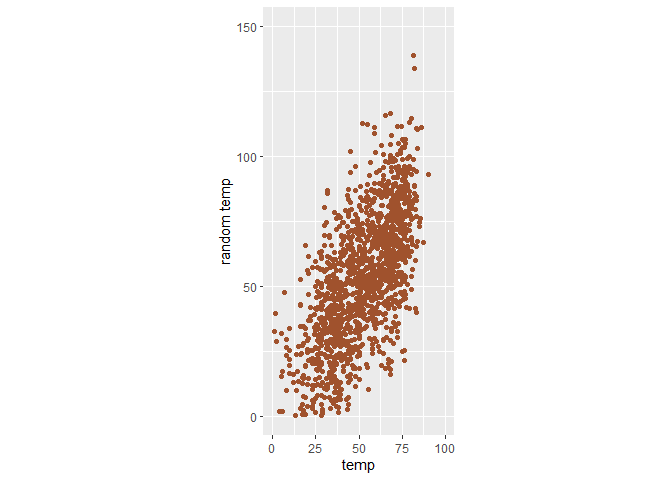
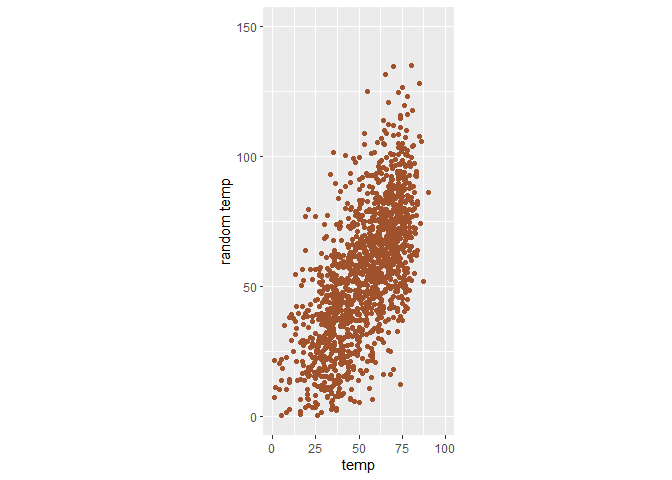
done with margins

Changed region(s): [[0.4062, 0.125, 0.625, 0.875]]

diff --git a/R/ggplot2_from_Ced.md b/R/ggplot2_from_Ced.md
@@ -73,6 +73,8 @@ ggplot2 Notes
     -   <a href="#same-background-color-for-whole-plot"
         id="toc-same-background-color-for-whole-plot">Same background color for
         whole plot</a>
+-   <a href="#working-with-margins" id="toc-working-with-margins">Working
+    with Margins</a>
 
 > **DISCLAIMER**: This note is fundamentally a copied version of [this
 > amazing tutorial by CÉDRIC
@@ -336,7 +338,7 @@ p <- ggplot(chic, aes(x = temp, y = temp + rnorm(nrow(chic), sd = 20))) +
 p
 ```
 
-    ## Warning: Removed 58 rows containing missing values (geom_point).
+    ## Warning: Removed 47 rows containing missing values (geom_point).
 
 ![](ggplot2_from_Ced_files/figure-gfm/unnamed-chunk-16-1.png)<!-- -->
 
@@ -356,7 +358,7 @@ axis. NBut we can make it same by using `coord_fixed()` which is uses
 p + coord_fixed()
 ```
 
-    ## Warning: Removed 47 rows containing missing values (geom_point).
+    ## Warning: Removed 54 rows containing missing values (geom_point).
 
 ![](ggplot2_from_Ced_files/figure-gfm/unnamed-chunk-17-1.png)<!-- -->
 
@@ -364,7 +366,7 @@ p + coord_fixed()
 p + coord_fixed(ratio = 1.5)
 ```
 
-    ## Warning: Removed 46 rows containing missing values (geom_point).
+    ## Warning: Removed 56 rows containing missing values (geom_point).
 
 ![](ggplot2_from_Ced_files/figure-gfm/unnamed-chunk-18-1.png)<!-- -->
 
@@ -372,7 +374,7 @@ p + coord_fixed(ratio = 1.5)
 p + coord_fixed(ratio = 1/4)
 ```
 
-    ## Warning: Removed 50 rows containing missing values (geom_point).
+    ## Warning: Removed 55 rows containing missing values (geom_point).
 
 ![](ggplot2_from_Ced_files/figure-gfm/unnamed-chunk-19-1.png)<!-- -->
 
@@ -950,3 +952,12 @@ ggplot(chic, aes(x = date, y = temp)) +
 
 To achieve this, specify `fill` as `transparent` or `NA` of
 `panel.background` and add color for `fill` in `plot.background`.
+
+## Working with Margins
+
+Specifying `plot.margin` as
+
+-   `margin(t = 1, r = 3, b = 1, l = 8, unit = "cm")`
+-   `unit(c(1, 3, 1, 8), "cm")`
+
+has same effect on the margin.
